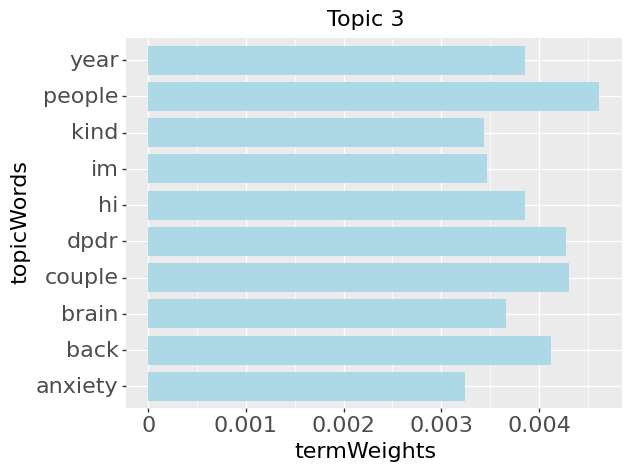
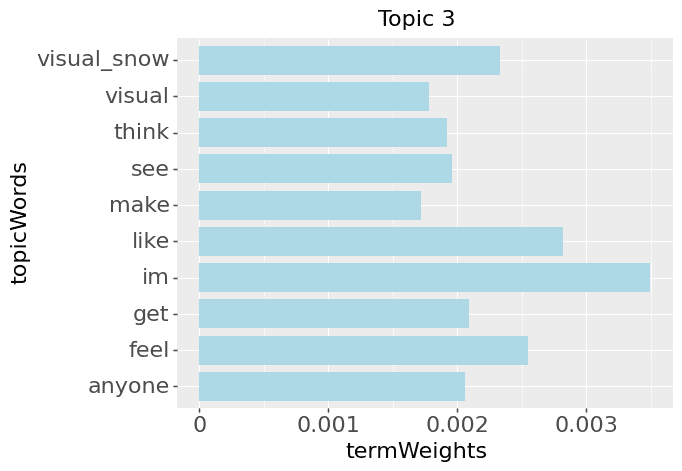
topic modeling

diff --git a/scripts/to_csv.py b/scripts/to_csv.py
@@ -82,7 +82,7 @@ if __name__ == "__main__":
 	input_file_path = sys.argv[1]
 	fields = ['subreddit','title','selftext','score','num_comments','created_utc']
 	cols = ['subreddit', 'post','score','num_comments','created_utc']
-	folders = ['Datasets/P1Clean', 'Datasets/P2Clean', 'Datasets/P3Clean', 'Datasets/P4Clean']
+	folders = ['Datasets/P1Clean', 'Datasets/P2Clean', 'Datasets/P3Clean', 'Datasets/P4Clean', 'Datasets/P5Clean']
 	read_and_process_files(folders, input_file_path, fields, cols)
 
 	

diff --git a/scripts/filePushshiftpull.py b/scripts/filePushshiftpull.py
@@ -1,7 +1,7 @@
 from tqdm import tqdm
 import urllib.request
 import os
-dates = ['2019-11', '2019-12', '2020-01', ..., '2022-12']
+dates = ['2019-11', '2019-12', '2020-01', ..., '2022-04']
 
 for i, date in enumerate(dates):
     file_url = f'https://files.pushshift.io/reddit/submissions/RS_{date}.zst'

diff --git a/3-WebScraping.md b/3-WebScraping.md
@@ -6,6 +6,8 @@ nav_order: 3
 
 # Web-Scraping Reddit
 
+> 2023-02-06
+
 An easy way to retrieve data from Reddit is through the PushShift.io API Wrapper [**PMAW**](https://github.com/mattpodolak/pmaw), [**PSAW**](https://psaw.readthedocs.io/en/latest/), or [**PRAW**](https://praw.readthedocs.io/en/stable/). Unfortunately, these wrappers do not have access to posts in certain timeframes.
 
 As a result, files.PushShift.io is utilized due to its 100% operational status as seen [here](https://stats.uptimerobot.com/l8RZDu1gBG). Screenshot taken on Jan 17, 2023:
@@ -15,32 +17,34 @@ As a result, files.PushShift.io is utilized due to its 100% operational status a
   width = "50%">
 </p>
 
-The following scripts were used:
+## The following scripts were used:
 
 **1.**  [filePushshiftpull.py](https://github.com/JLS-bz/JLS-bz.github.io/blob/main/scripts/filePushshiftpull.py)
   - Automates the downloading of compressed .zst files from [files.pushshift.io](https://files.pushshift.io/reddit/submissions/). 
-  - Date range: 2019-11 to 2022-12.
+  - Date range: **2019-11 to 2022-04**.
+  - Ideally, the data range would be 2019-11 to 2022-12; however, the compressed files following 2022-4 are 10GB and up in size. Downloading, decompressing, and processing them would be too time/resource costly.
 
 **2.**  PushshiftDumps by Watchful1
 
-a)  [combine_folder_multiprocess.py](https://github.com/Watchful1/PushshiftDumps/blob/master/scripts/combine_folder_multiprocess.py): converts a folder of .zst files into decompressed .ndjson and subreddit specific .zst files 
+a) [combine_folder_multiprocess.py](https://github.com/Watchful1/PushshiftDumps/blob/master/scripts/combine_folder_multiprocess.py)
 
-The following subreddits were selected and grouped according to topics of interest:
+Converts a folder of .zst files into decompressed .ndjson and individual subreddit specific .zst files.
+
+b)  [to_csv.py (adapted)](https://github.com/JLS-bz/JLS-bz.github.io/blob/main/scripts/to_csv.py)
+
+Converts and processes subreddit specific .zst files into decompressed .csv files.
+  - Only information falling under the following columns are kept: subreddit, title, selftext, score, num_comments, created_utc.
+  - Columns 'title' and 'selftext' are combined to create column 'post', then dropped.
+  - Combines individual subreddit specific .zst files according to general topics of interest.
+
+## List of general topics and their respective subreddits:
+
   - **Autism/ADHD**: adhd_anxiety, ADHD, adhdwomen, asd, autism, AutisticWithADHD, aspergers
   - **Anxiety/Depression**: SuicideWatch, depression, depression_help, Anxiety, AnxietyDepression, Anxietyhelp, socialanxiety, HealthAnxiety, anxietysuccess
   - **COVID**: COVID19positive, covidlonghaulers
-   - **Dissociation**: dpdr, dpdrhelp, Dissociation, Depersonalization, derealization, DPDRecoveryStories, OSDD, anhedonia, visualsnow, BrainFog, DID, Psychosis
+   - **Dissociation**: dpdr, dpdrhelp, Dissociation, Depersonalization, derealization, DPDRecoveryStories, OSDD, anhedonia, visualsnow, BrainFog, Psychosis
   - **Drugs/addiction related**: leaves, zoloft, Drugs, addiction, REDDITORSINRECOVERY, opiates, Psychonaut, benzorecovery, HPPD
   - **LGBT**: lgbt, GenderDysphoria, ftm, MtF, trans, NonBinary
   - **PTSD and Personality Disorders**: CPTSD, PTSD, ptsdrecovery, NarissisticAbuse, raisedbynarcissists, BPD, BPDlovedones, BorderlinePDisorder, BPD4BPD, BPDPartners
 
-b)  [single_file.py (adapted)](https://github.com/JLS-bz/JLS-bz.github.io/blob/main/scripts/to_csv.py)
-  - converts and processes subreddit specific .zst files into decompressed .csv
-      - only information falling under the following columns were kept: subreddit, title, selftext, score, num_comments, created_utc
-      - columns 'title' and 'selftext' were combined to create column 'post', then dropped
-
-
-# Web-Scraping Facebook ?
-
-tbd
 ----

diff --git a/4-TopicModeling.md b/4-TopicModeling.md
@@ -8,37 +8,24 @@ nav_order: 4
 > Large segments of code were adapted from Obedkova's (2020) tutorial, namely in the following sections: SparkNLP Pipelines, PoS-based Filtering, and Vectorization.
 
 ## Dependencies:
-``` python
-# Install pyspark
-! pip install pyspark==3.3.0
-! apt-get install openjdk-8-jdk-headless -qq > /dev/null
 
-# Install Spark NLP
-! pip install spark-nlp==4.0.2
+1. Spark NLP version: 4.0.2
 
-# Install nltk
-! pip install nltk
-```
+2. Apache Spark version: 3.30
 
-## Import SparkNLP and initialize session
-``` python
-import sparknlp
+## Datasets
 
-spark = sparknlp.start()
-print("Spark NLP version: ", sparknlp.version())
-print("Apache Spark version: ", spark.version)
-```
-Spark NLP version: 4.0.2
-
-Apache Spark version: 3.30
-
-
+1. **Dissociation**: dpdr, dpdrhelp, Dissociation, Depersonalization, derealization, DPDRecoveryStories, OSDD, anhedonia, visualsnow, BrainFog, Psychosis. 
+  - Date range: 2019-11 to 2022-04
+2. **dpdr**
+  - Date range: 2022-12 to 2023-01
 Here is a glimpse of the dataset:
-![](assets/dpdr_Dataset_glimpse.png)<!-- -->
+![](assets/TM-glimpse.png)<!-- -->
+
 
 ## SparkNLP Pipelines
 ### No.1: Unigrams & PoS
-First, a basic pipeline is used to transform the data into unigrams and their respective Parts of Speech (PoS) labels. N-grams are also found, but may contain questionable combinations; this output will be further processed in the next pipeline.
+First, a basic pipeline is used to transform the dataset **Dissociation** into unigrams and their respective Parts of Speech (PoS) labels. N-grams are also found, but may contain questionable combinations; this output will be further processed in the next pipeline.
 
 This pipeline uses the following annotators:
 1. **Document Assembler**: Prepares data into a format that is processable by Spark NLP. This is the entry point for every Spark NLP pipeline. (*Input*: the 'post' column in the current dataset.)
@@ -53,7 +40,7 @@ This pipeline uses the following annotators:
 Contrary to commonly used NLP pipelines, a Lemmatizer Annotator is not used, in order to preserve the various uses of verb tenses. This affects generated n-grams. 
 
 Output:
-![](assets/Pipeline1_output.png)<!-- -->
+![](assets/TM-POS.png)<!-- -->
 
 ### No.2: N-Grams
 PoS-based filtering is used in this pipeline to remove strange word combinations and reduce vocab size.
@@ -66,10 +53,10 @@ The following pipeline is used to correspond PoS tag n-grams with word n-grams:
 
 ## PoS-based Filtering
 Unigrams:
-![](assets/filtered_unigrams.png)<!-- -->
+![](assets/TM-POSunigram.png)<!-- -->
 
 Bigrams and Trigrams:
-![](assets/filtered_ngrams.png)<!-- -->
+![](assets/TM-POSngram.png)<!-- -->
 
 ## Vectorization: TF-IDF
 Unigram and n-gram data as shown above are first combined. Then, **TF** (term frequency) vectorization is performed with **CountVectorizer** in PySpark. Finally, **IDF**(inverse document frequency) is used to lower word frequency scores.
@@ -79,7 +66,7 @@ Unigram and n-gram data as shown above are first combined. Then, **TF** (term fr
 
 *Direct quotation from Kulshrestha (2020)*
 
-When performing LDA, the number of topics is fixed and predetermined. To find the optimal number of topics, LDA models with x number of topics are trained and their corresponding logLikelihood and logPerplexity calculated.
+When performing LDA, the number of topics is fixed and predetermined. To find the optimal number of topics, LDA models with x number of topics are trained and their corresponding logLikelihood and logPerplexity calculated. This is an expensive operation to run, in terms of time and computing resources, so dataset **dpdr** was used here. 
 
 ![](assets/likelihood.png) ![](assets/perplexity.png)
 
